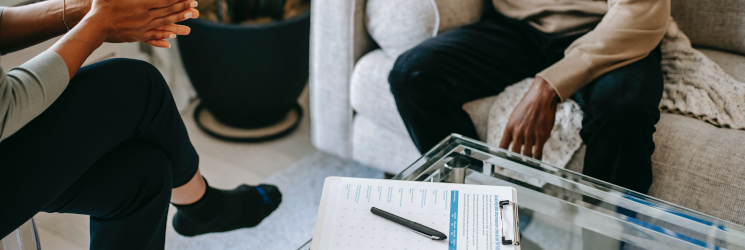
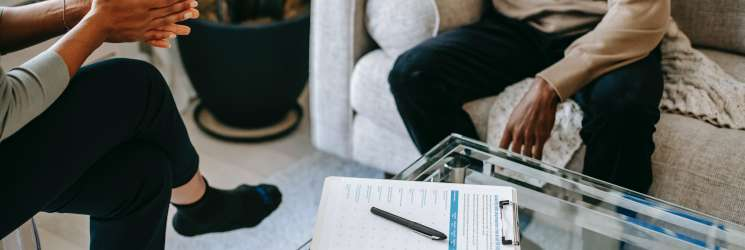
updated meta content to improve searchability. compressed images.

diff --git a/index.html b/index.html
@@ -3,9 +3,20 @@
     <head>
         <meta charset="utf-8" />
         <meta name="viewport" content="width=device-width, initial-scale=1, shrink-to-fit=no" />
-        <meta name="description" content="" />
+        <title>Barrie Psychotherapist | Witlox Psychotherapy | Barrie, ON</title>
+        <meta name="description" content="Witlox Psychotherapy is a private psyotherapy practice in the north end of Barrie, Ontario providing in-person and online psychotherapy services to children, youth, adults, and families." />
+        <meta name="robots" content="follow, index, Noarchive, Nocache, max-snippet:-1, max-video-preview:-1, max-image-preview:large">
+        <link rel="canonical" href="https://witloxpsychotherapy.ca/">
+        <meta property="og:locale" content="en_US">
+        <meta property="og:type" content="website">
+        <meta property="og:title" content="Barrie Psychotherapist | Witlox Psychotherapy | Barrie, ON">
+        <meta property="og:description" content="Witlox Psychotherapy is a private psyotherapy practice in the north end of Barrie, Ontario providing in-person and online psychotherapy services to children, youth, adults, and families.">
+        <meta property="og:url" content="https://witloxpsychotherapy.ca/">
+        <meta property="og:site_name" content="Witlox Psychotherapy">
+        <meta name="twitter:card" content="summary_large_image">
+        <meta name="twitter:title" content="Barrie Psychotherapist | Witlox Psychotherapy | Barrie, ON">
+        <meta name="twitter:description" content="Witlox Psychotherapy is a private psyotherapy practice in the north end of Barrie, Ontario providing in-person and online psychotherapy services to children, youth, adults, and families.">
         <meta name="author" content="Alissa Witlox" />
-        <title>Witlox Psychotherapy</title>
         <link rel="icon" type="image/x-icon" href="assets/favicon.svg" />
         <link href="https://cdn.jsdelivr.net/npm/bootstrap-icons@1.5.0/font/bootstrap-icons.css" rel="stylesheet" />
         <link href="https://fonts.googleapis.com/css2?family=Charm&family=Didact+Gothic&display=swap" rel="stylesheet">
